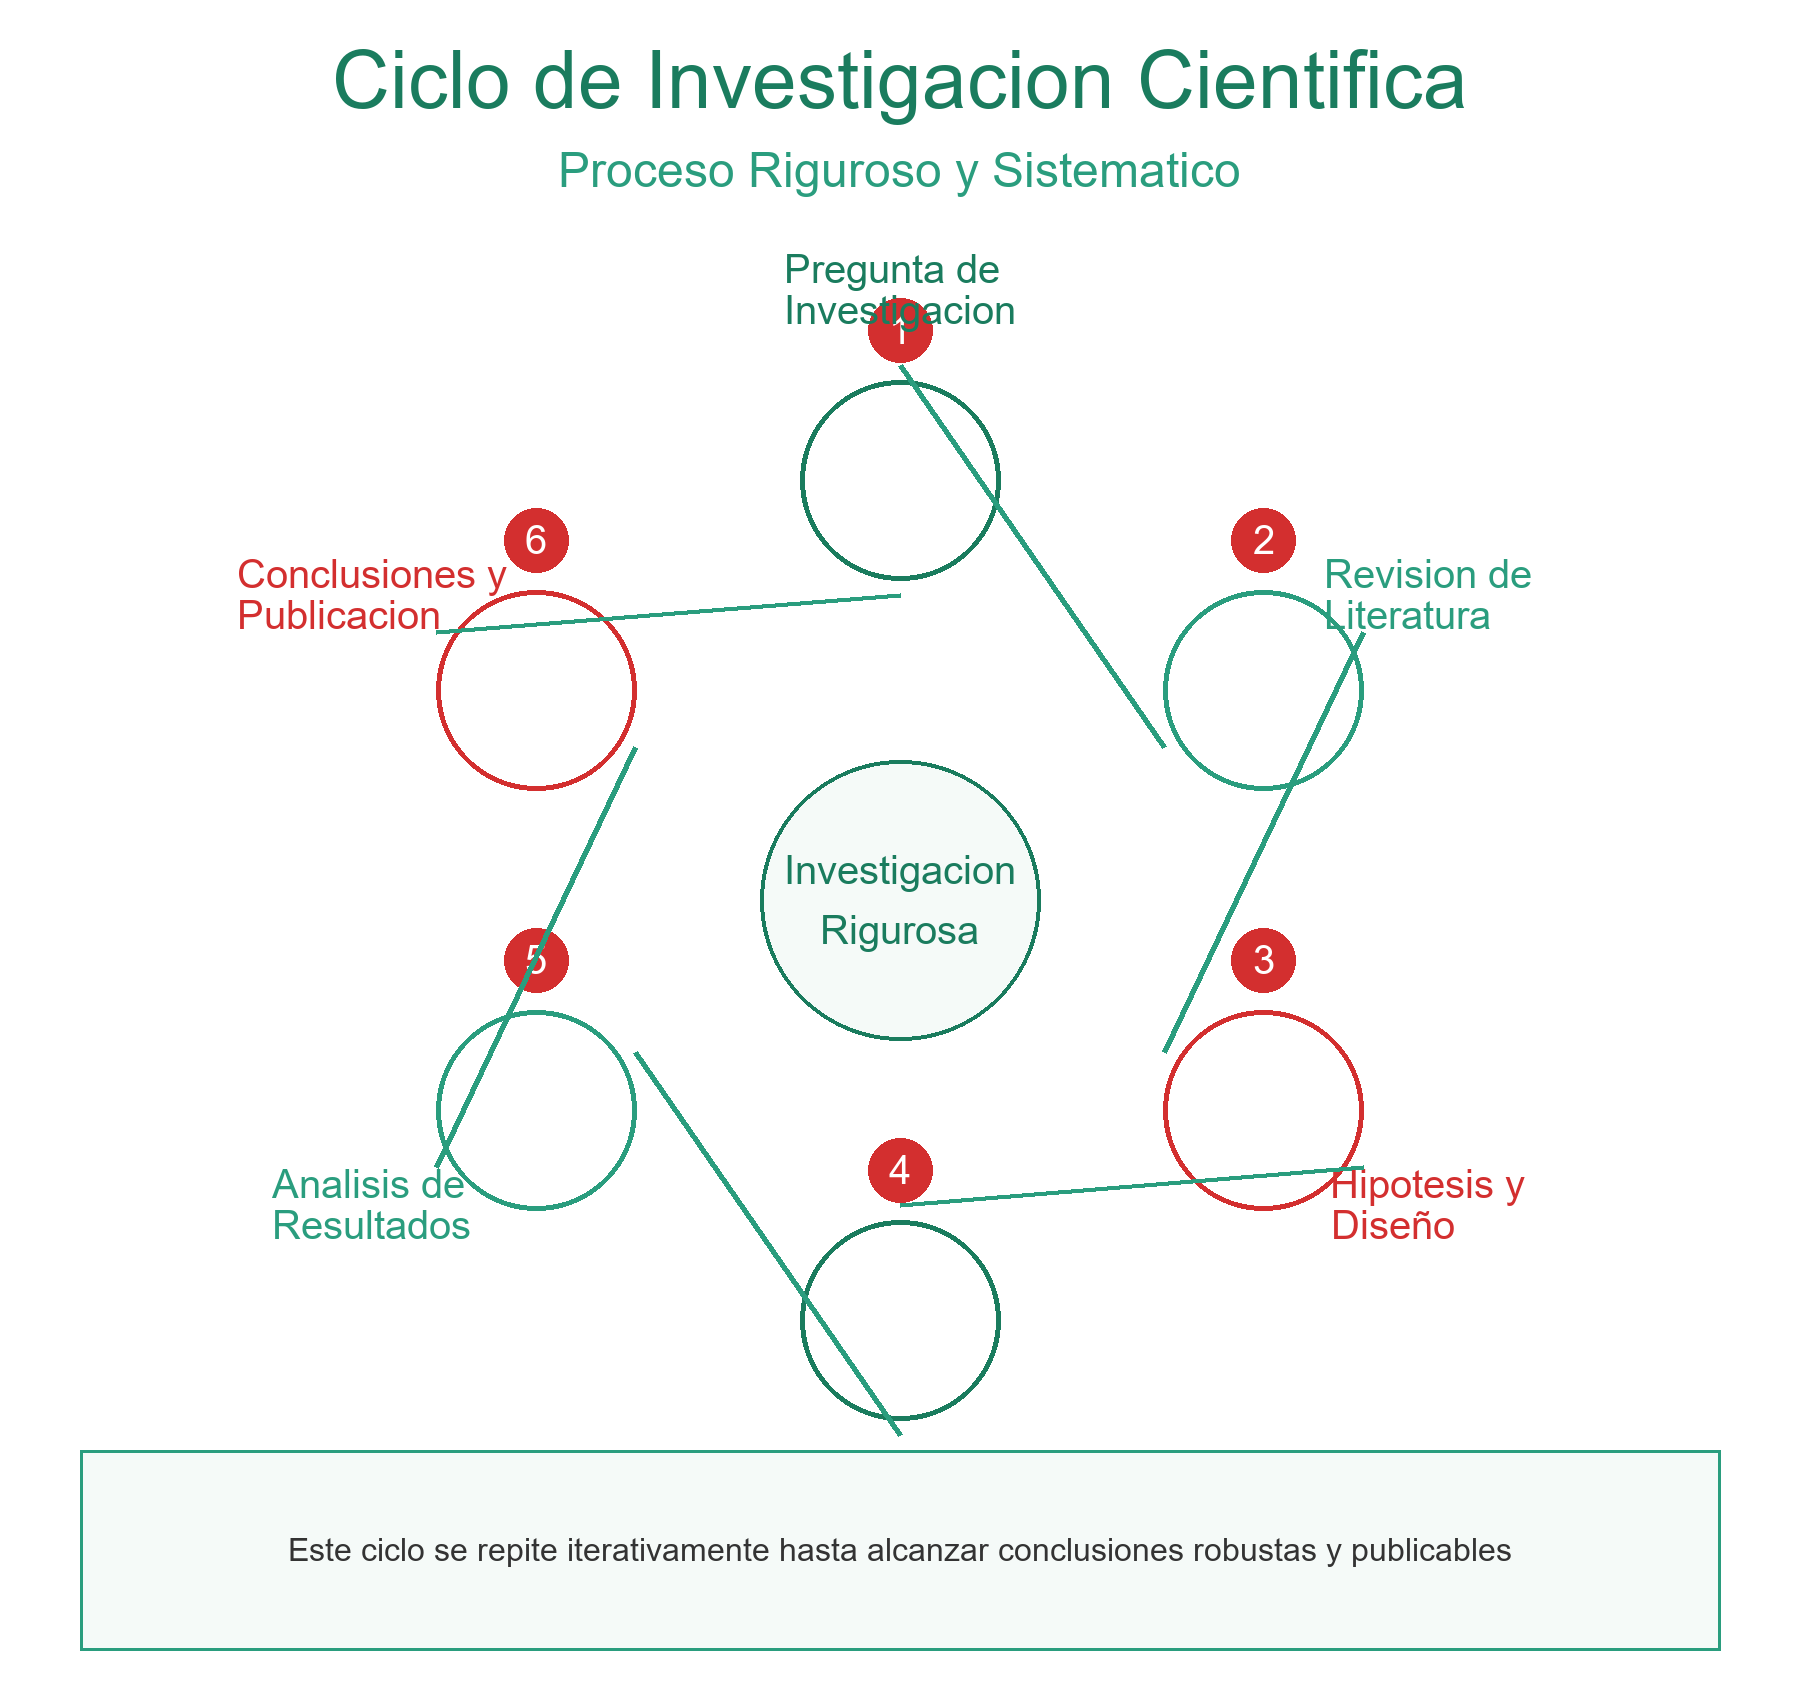
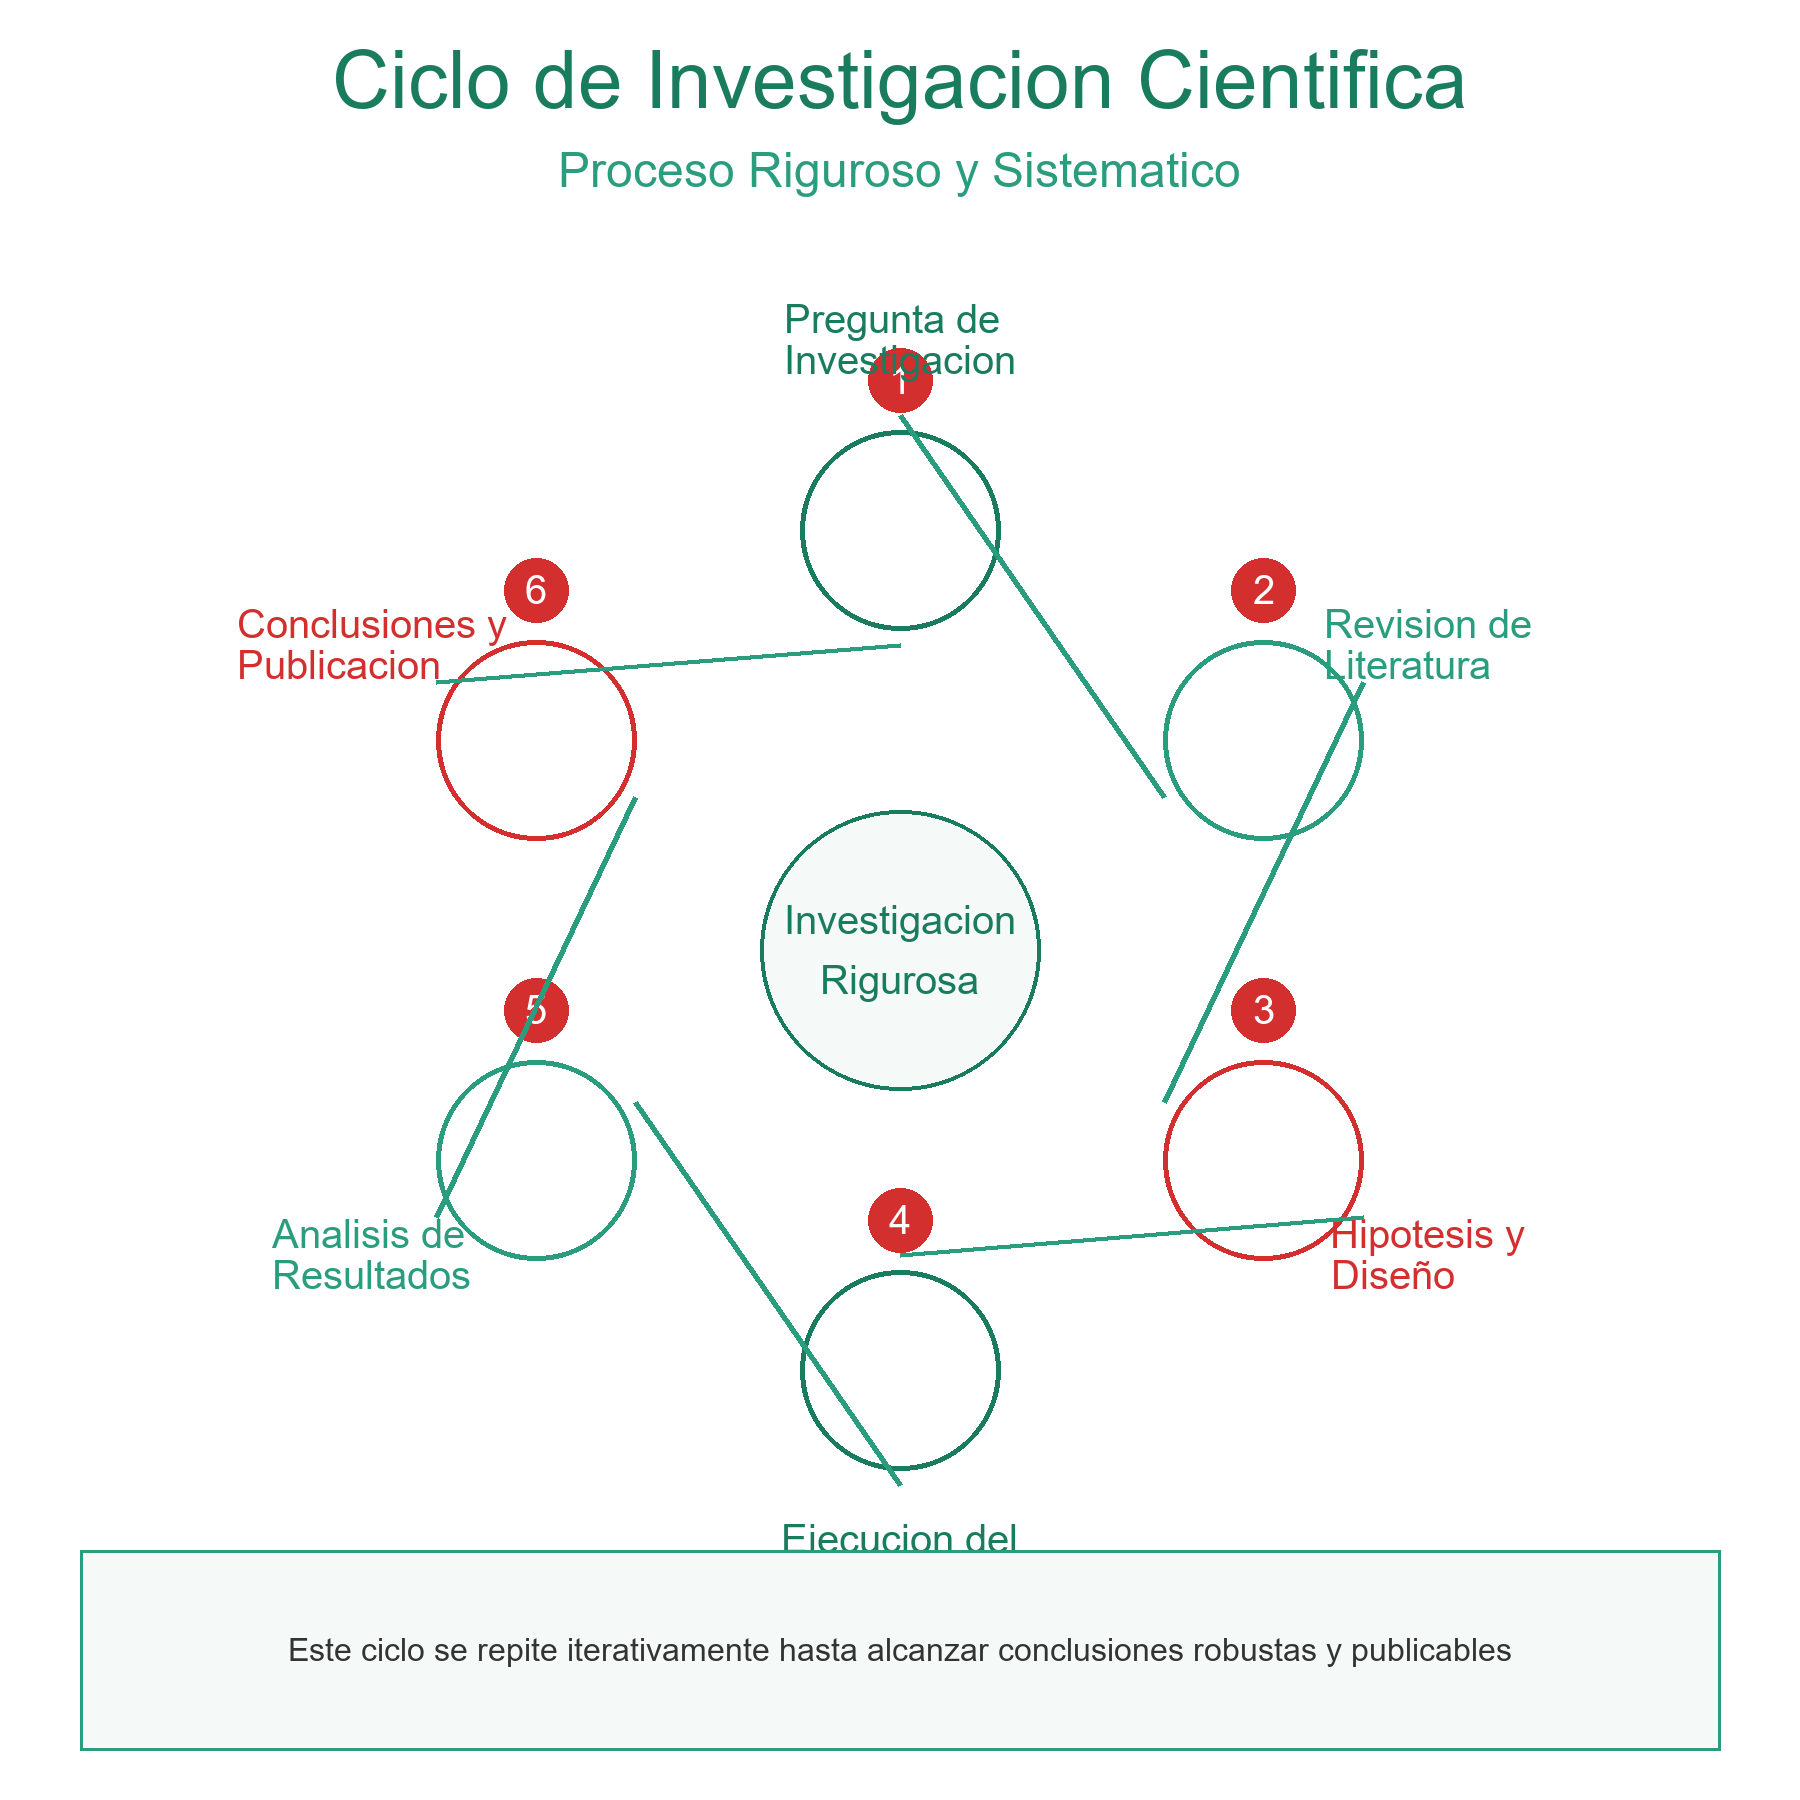
fix: Increase diagram height to fully display step 4 in cycle

diff --git a/Pagina Web/generate_research_diagrams_pil.py b/Pagina Web/generate_research_diagrams_pil.py
@@ -145,7 +145,7 @@ print("Imagen 1 generada: research-process-diagram.png")
 # ============================================
 # Crear imagen 2: Ciclo de Investigacion
 # ============================================
-img2 = Image.new('RGB', (1800, 1700), color='white')
+img2 = Image.new('RGB', (1800, 1800), color='white')
 draw2 = ImageDraw.Draw(img2, 'RGBA')
 
 # Titulo
@@ -165,7 +165,7 @@ cycle_steps = [
 ]
 
 # Posiciones en circulo
-center_x, center_y = 900, 900
+center_x, center_y = 900, 950
 radius = 420
 
 # Colores alternos para pasos
@@ -230,7 +230,7 @@ draw2.text((center_x, center_y + 30), "Rigurosa",
            font=step_title_font, fill=primary_green, anchor="mm")
 
 # Info box
-info_y = 1450
+info_y = 1550
 draw2.rectangle([(80, info_y), (1720, info_y + 200)],
                 outline=secondary_green, width=3, fill=(245, 250, 248))
 info_text2 = "Este ciclo se repite iterativamente hasta alcanzar conclusiones robustas y publicables"
